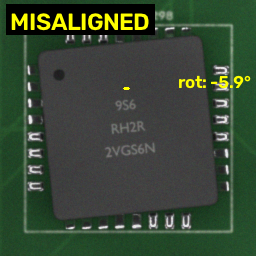
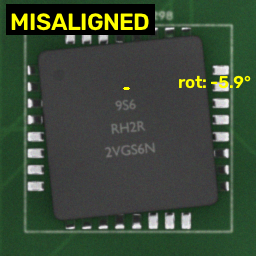
Blender top light: larger, dimmer disc so flat metal is not clipped; gallery
Same diffuse illumination at lower radiance: mirror-like solder tops and
end caps reflect ~220 instead of clipping to white (clipped fraction on a
0603 scene 1.3% -> 0.07%), board still at its baked colours. Sample
gallery regenerated with the standing-part tombstones.

diff --git a/Simple-Sim/simple_sim/blender/render_batch.py b/Simple-Sim/simple_sim/blender/render_batch.py
@@ -35,7 +35,7 @@ from mathutils import Vector
 _HEIGHT_RATIO = {"resistor": 0.56, "capacitor": 0.56, "sot": 0.75, "soic": 0.38, "qfn": 0.18}
 _RESISTOR_CODES = ("103", "472", "1002", "000", "0", "221", "4R7", "100", "330", "10K", "1R0", "5602")
 _MARK_CHARS = "ABCDEFGHJKLMNPRSTUVWXYZ0123456789"
-RING_STRENGTH, TOP_STRENGTH = 5.0, 2.5  # emission strengths, calibrated to the baked board colours
+RING_STRENGTH, TOP_STRENGTH = 6.0, 0.9  # emission strengths, calibrated to the baked board colours
 
 
 def _parse_args() -> argparse.Namespace:
@@ -360,7 +360,7 @@ def _aoi_lights(render_3d: dict[str, Any], roi_mm: float) -> None:
                                          emission=float(ring_cfg.get("strength", RING_STRENGTH))))
     ring.visible_camera = False
 
-    bpy.ops.mesh.primitive_circle_add(vertices=48, radius=0.8 * radius, fill_type="NGON",
+    bpy.ops.mesh.primitive_circle_add(vertices=48, radius=2.0 * radius, fill_type="NGON",
                                       location=(0.0, 0.0, 1.2 * height), rotation=(math.pi, 0.0, 0.0))
     top = bpy.context.active_object
     top.name = "top_light"

diff --git a/Simple-Sim/docs/guides/3D_RENDERING_QUICKSTART.md b/Simple-Sim/docs/guides/3D_RENDERING_QUICKSTART.md
@@ -43,8 +43,8 @@ render_3d:
     location_mm: [0.0, 0.0, 9.0]   # straight down; an x/y offset tilts the view (foreshortens pads)
     look_at_mm: [0.0, 0.0, 0.0]
   lighting:
-    ring_light: {}                 # optional: strength (5), height_mm (2x ROI), radius_mm (35 deg ring)
-    top_light: {}                  # optional: strength (2.5)
+    ring_light: {}                 # optional: strength (6), height_mm (2x ROI), radius_mm (35 deg ring)
+    top_light: {}                  # optional: strength (0.9)
   materials:
     body:   {base_color: [0.02, 0.02, 0.02], roughness: 0.6, metallic: 0.0}   # linear RGB
     solder: {base_color: [0.70, 0.70, 0.72], roughness: 0.18, metallic: 1.0}  # also used for leads

diff --git a/Simple-Sim/SAMPLE_GALLERY.md b/Simple-Sim/SAMPLE_GALLERY.md
@@ -1,6 +1,6 @@
 # Sample Gallery
 
-Auto-generated reference images for all component profiles (2D and 3D). Last updated: 2026-11-06 08:31:41
+Auto-generated reference images for all component profiles (2D and 3D). Last updated: 2026-11-06 09:10:10
 
 Re-generate by running:
 ```bash
